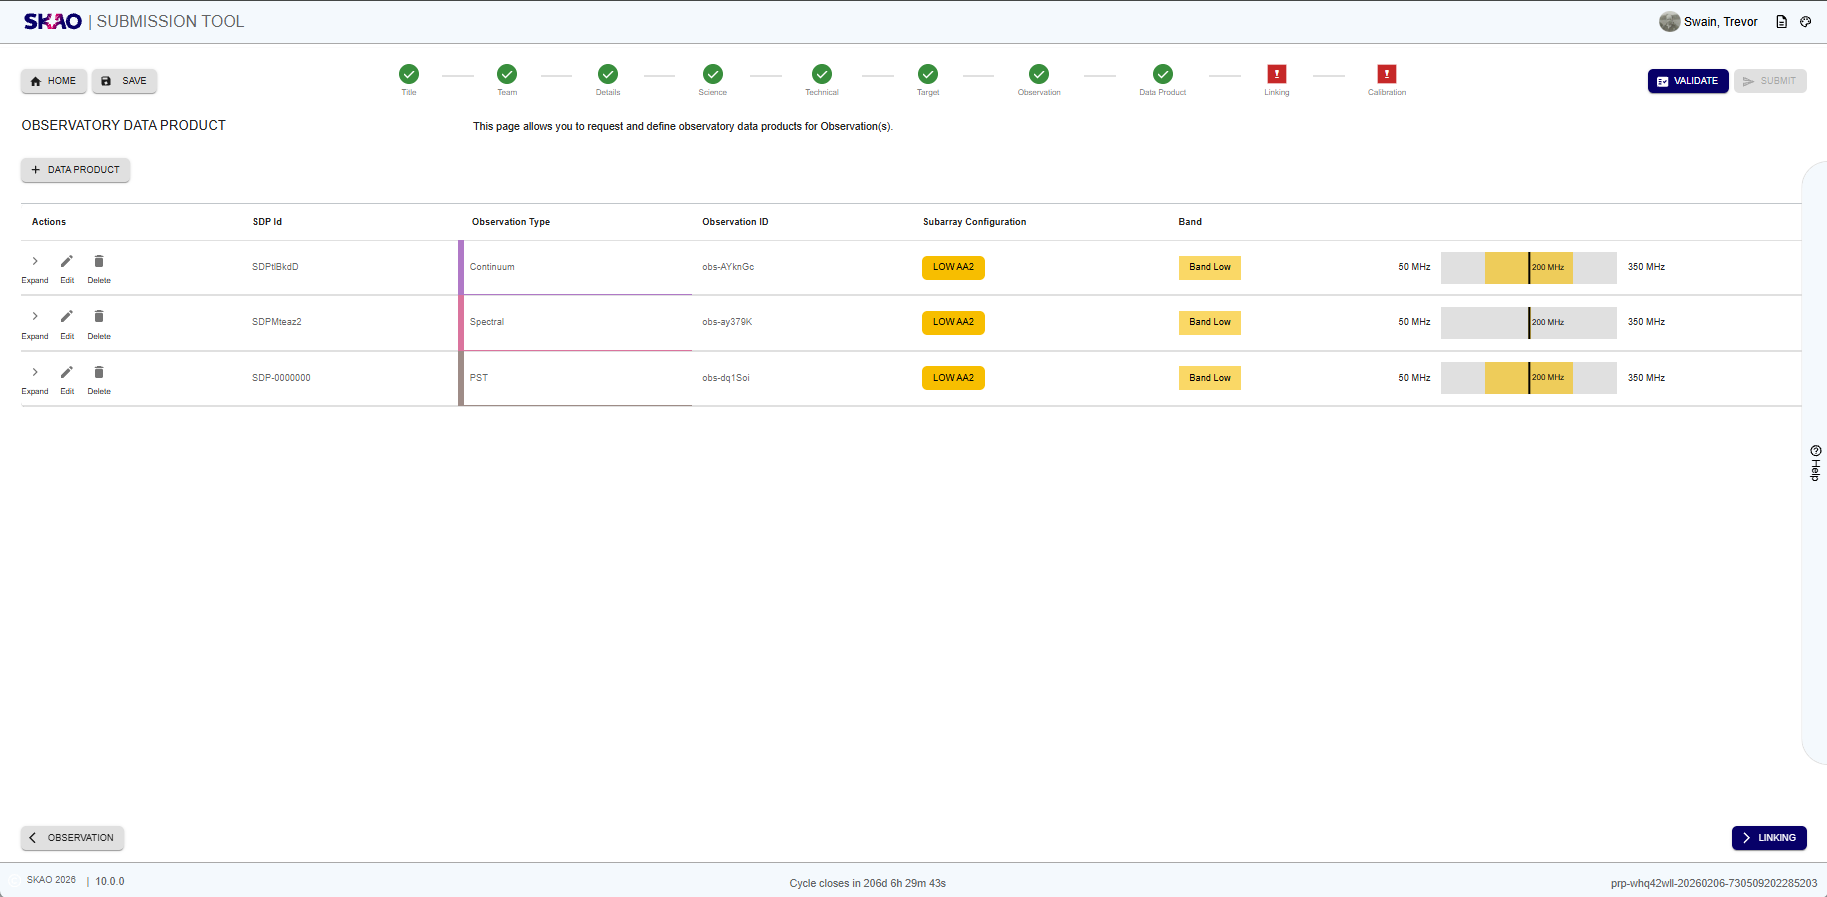
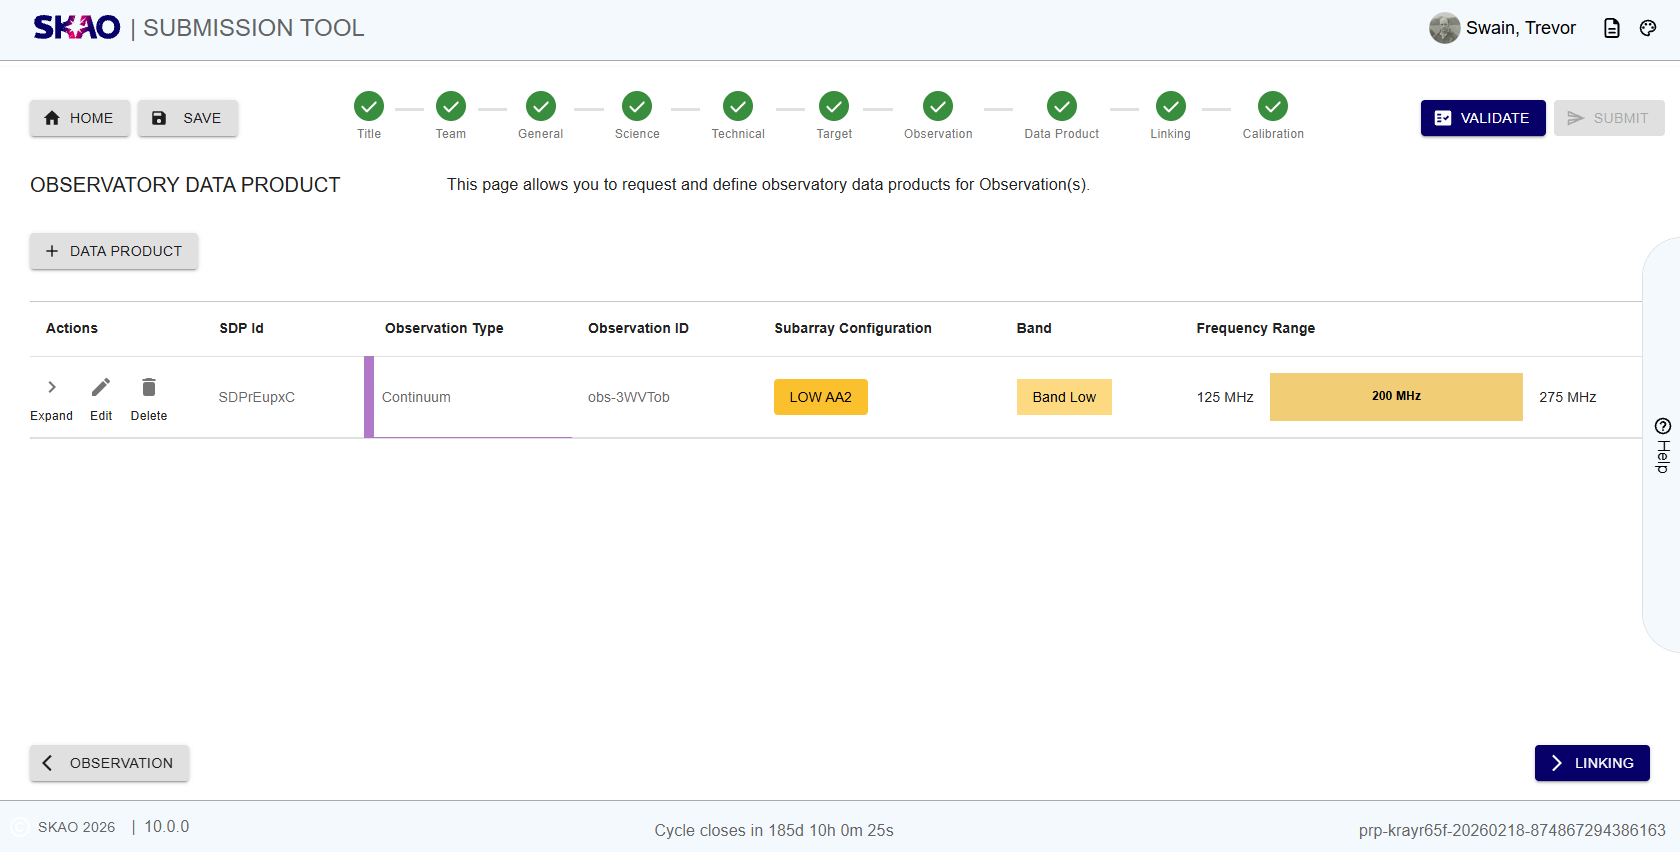
STAR-1822 : Added Data Product Page documentation

diff --git a/src/pages/entry/ObservationEntry/ObservationEntry.tsx b/src/pages/entry/ObservationEntry/ObservationEntry.tsx
@@ -975,13 +975,13 @@ export default function ObservationEntry({ data }: ObservationEntryProps) {
         <Grid size={{ md: 12, lg: 6 }}>{centralFrequencyField()}</Grid>
         <Grid sx={{ height: 100 }} size={{ md: 12 }}></Grid>
         <Grid size={{ md: 12, lg: 6 }}>
-          {/* {isPST()
+          {isPST()
             ? pstModeField()
             : isZoom()
             ? spectralAveragingField()
             : isContinuum()
             ? SubBandsField()
-            : emptyField()} */}
+            : emptyField()}
         </Grid>
         <Grid size={{ md: 12, lg: 6 }}>{isZoom() ? spectralResolutionField() : emptyField()}</Grid>
         <Grid size={{ md: 12, lg: 6 }}>{isZoom() ? effectiveResolutionField() : emptyField()}</Grid>

diff --git a/docs/src/userGuide/proposal/DataProductPage.rst b/docs/src/userGuide/proposal/DataProductPage.rst
@@ -1,7 +1,7 @@
-Observatory Data Product Page
-~~~~~~~~~~~~~~~~~~~~~~~~~~~~~~~~~
+ObservatoryData Product Page
+~~~~~~~~~~~~~~~~~~~~~~~~~~~~~~
 
-Data Products are associated to one or more Observation(s) which have a valid association to a target with resultant sensitivity calculation results. Here, you can request a single or multiple observatory data products for an observation set added to your proposal. The |icosdp| button is not active until an observation exists, has been linked to a target and has a valid Sensitivity Calculation Result. 
+Data Products are associated to an Observation which have a valid association to a target. Here, you can request a single or multiple observatory data products for an observation set added to your submission. The |icosdp| button is not active until an observation exists. 
 :numref:`Figure %s <figure50>` shows the layout of the observatory data product page when no data product has been added to Observation(s).
 
 .. |icosdp| image:: /images/addsdp.png
@@ -22,11 +22,10 @@ Data Products are associated to one or more Observation(s) which have a valid as
 Key Information and Actions
 ===========================
 
-- View data products added to observation set(s).
+- View data products added to an observation set.
 - Add new data products.
 - Delete data products.
-- If no observation is added to your proposal yet, the |icosdp| button will be deactivated.
-
+- If no observation is added to your submission yet, the |icosdp| button will be deactivated.
 
 
 Layout and Navigation
@@ -37,62 +36,62 @@ The are two parts to the observatory data product page:
 1. **Landing page**
 
 
-   To add observatory data product to an observation, click the  |icosdp| button. Once data products 
-   have been added to your Observation(s), the observatory data product landing page will 
+   To add observatory data product to an observation, click the  |icosdp| button. Once a data product 
+   has been associated to an Observation, the observatory data product landing page will 
    display a table as shown in :numref:`Figure %s <datapage>`. This table displays the following:
 
-      - *Observation(s)*: Observation set selected for which the observatory data product(s) is added.
-      - *Observatory Data Products*:  A list of added data products(s).
-      - *Image Size*: Image size requested.
-      - *Pixel Size*: Pixel size calculated based on the beam size returned from the sensitivity calculator =  :math:`\frac{\theta_{minor}}{3} arcsec`.
-      - *Weighting*: The weighting of the selected observation set.
-      - *"Actions"* : "Delete" is the only option available at the moment.
-
-
-.. _datapage:
-
-.. figure:: /images/sdpdata1.png
-   :width: 90%
-   :alt: Image of the Observatory Data Product page with data products added. 
-
-   Observatory Data Product page with data products added.
-
-
-
-Below is the list of Observatory Data Products available at present:
-
-      - Image Products 1 : Image Cubes
-      - Image Products 2 : UV Grids
-      - LSM Catalogue
-      - Visibilities
-
-
-  
+      - *"Actions"* : 
+         - *Expand* : Expand to view details of the data product added to the observation set
+         - *Edit" : Edit the data product parameters. This takes you to the data product management page (see next section).
+         - *Delete* : Delete the data product association to an observation set.
+      -"SDP Id": Unique identifier for the data product association to an observation set.
+      - *Observation Type*: Type of observation associated to the Data PProduct.
+      - *Observatory ID*:  Unique identifier for the Observation set.
+      - *Subarray Configuration*: Subarray configuration of the observation set.
+      - *Observing Band*: Observing band of the selected observation set.
+      - *Frequency Range*: Frequency range of the selected observation set.
 
 2. **Data Product Management**
 
 - Clicking on the |icosdp| button takes the user to a page where parameters of the 
-  data product(s) can be specified as shown in :numref:`Figure %s <datapage2>`
+  different data product(s) can be specified as shown below:
 
 .. _datapage2:
 
-.. figure:: /images/sdpdata2.png
+.. figure:: /images/dpContinuum1.png
    :width: 90%
-   :alt: Image of the Observatory Data Product management page 
+   :alt: Image of the Data Product Continuum Images page 
 
-   Observatory Data Product management page.
+   Data Product Continuum Images page 
 
+.. figure:: /images/dpContinuum2.png
+   :width: 90%
+   :alt: Image of the Data Product Continuum Visibilities page 
 
-Key Information and Actions
-===========================
+   Data Product Continuum Visibilities page 
 
-- View data products added to Observation(s).
-- Add new data products.
-- Delete data products.
-- If no observation is added to your proposal yet, the |icosdp| button will be deactivated.
+.. figure:: /images/dpSpectral.png
+   :width: 90%
+   :alt: Image of the Data Product Spectral page 
 
+   Data Product Spectral page 
+   
+.. figure:: /images/dpPST1.png
+   :width: 90%
+   :alt: Image of the Data Product PST Pulsar Timing page 
 
+   Data Product PST Pulsar Timing page 
 
+.. figure:: /images/dpPST2.png
+   :width: 90%
+   :alt: Image of the Data Product PST Detected Filter Bank page 
 
+   Data Product PST Detected Filter Bank page 
+
+.. figure:: /images/dpPST3.png
+   :width: 90%
+   :alt: Image of the Data Product PST Flow Through page 
+
+   Data Product PST Flow Through page 
 
 |helpdesk|

diff --git a/docs/src/userGuide/sv/DataProductsPageSV.rst b/docs/src/userGuide/sv/DataProductsPageSV.rst
@@ -1,98 +1,45 @@
 Observatory Data Product Page
 ~~~~~~~~~~~~~~~~~~~~~~~~~~~~~~~~~
 
-Data Products are associated to one or more Observation(s) which have a valid association to a target with resultant sensitivity calculation results. Here, you can request a single or multiple observatory data products for an observation set added to your proposal. The |icosdp| button is not active until an observation exists, has been linked to a target and has a valid Sensitivity Calculation Result. 
-:numref:`Figure %s <figure50>` shows the layout of the observatory data product page when no data product has been added to Observation(s).
-
-.. |icosdp| image:: /images/addsdp.png
-   :width: 20%
-   :alt: Page filter
-
-
-.. _figure50:
-
-.. figure:: /images/dataProductPage.png
-   :width: 100%
-   :alt: Image of the Observatory Data Product page. 
-
-   Observatory Data Product page.
-
-
-
-Key Information and Actions
-===========================
-
-- View data products added to observation set(s).
-- Add new data products.
-- Delete data products.
-- If no observation is added to your proposal yet, the |icosdp| button will be deactivated.
-
-
-
-Layout and Navigation
-=====================
-
-The are two parts to the observatory data product page:
-
-1. **Landing page**
-
-
-   To add observatory data product to an observation, click the  |icosdp| button. Once data products 
-   have been added to your Observation(s), the observatory data product landing page will 
-   display a table as shown in :numref:`Figure %s <datapage>`. This table displays the following:
-
-      - *Observation(s)*: Observation set selected for which the observatory data product(s) is added.
-      - *Observatory Data Products*:  A list of added data products(s).
-      - *Image Size*: Image size requested.
-      - *Pixel Size*: Pixel size calculated based on the beam size returned from the sensitivity calculator =  :math:`\frac{\theta_{minor}}{3} arcsec`.
-      - *Weighting*: The weighting of the selected observation set.
-      - *"Actions"* : "Delete" is the only option available at the moment.
-
-
-.. _datapage:
-
-.. figure:: /images/sdpdata1.png
-   :width: 90%
-   :alt: Image of the Observatory Data Product page with data products added. 
-
-   Observatory Data Product page with data products added.
-
-
-
-Below is the list of Observatory Data Products available at present:
-
-      - Image Products 1 : Image Cubes
-      - Image Products 2 : UV Grids
-      - LSM Catalogue
-      - Visibilities
-
-
-  
-
-2. **Data Product Management**
-
-- Clicking on the |icosdp| button takes the user to a page where parameters of the 
-  data product(s) can be specified as shown in :numref:`Figure %s <datapage2>`
+A Data Product is associated to a single Observation.
+The different possible data product variations are shown below:
 
 .. _datapage2:
 
-.. figure:: /images/sdpdata2.png
+.. figure:: /images/dpContinuum1.png
    :width: 90%
-   :alt: Image of the Observatory Data Product management page 
+   :alt: Image of the Data Product Continuum Images page 
 
-   Observatory Data Product management page.
+   Data Product Continuum Images page 
 
+.. figure:: /images/dpContinuum2.png
+   :width: 90%
+   :alt: Image of the Data Product Continuum Visibilities page 
 
-Key Information and Actions
-===========================
+   Data Product Continuum Visibilities page 
 
-- View data products added to Observation(s).
-- Add new data products.
-- Delete data products.
-- If no observation is added to your proposal yet, the |icosdp| button will be deactivated.
+.. figure:: /images/dpSpectral.png
+   :width: 90%
+   :alt: Image of the Data Product Spectral page 
 
+   Data Product Spectral page 
+   
+.. figure:: /images/dpPST1.png
+   :width: 90%
+   :alt: Image of the Data Product PST Pulsar Timing page 
 
+   Data Product PST Pulsar Timing page 
 
+.. figure:: /images/dpPST2.png
+   :width: 90%
+   :alt: Image of the Data Product PST Detected Filter Bank page 
 
+   Data Product PST Detected Filter Bank page 
+
+.. figure:: /images/dpPST3.png
+   :width: 90%
+   :alt: Image of the Data Product PST Flow Through page 
+
+   Data Product PST Flow Through page 
 
 |helpdesk|

diff --git a/docs/src/userGuide/proposal/TitlePage.rst b/docs/src/userGuide/proposal/TitlePage.rst
@@ -47,9 +47,9 @@ Key Information and Actions
    :header: "Submission Attributes", "Initials", "Description"
 
     "Target of Opportunity", "ToO", "These are submissions that require rapid response to alerts that have been triggered by events either externally or internally to the SKA."
-    "Joint SKA submission", "JSP", "A submission that requires both SKA-LOW and SKA-MID telescopes to achieve the science goals. Such submissions may be linked so that observations can be executed contemporaneously."
-    "Coordinated Submission", "CP", "A  submission  requiring  observing  to  be  coordinated  with  another  facility    (either    ground- or   space-based)    with    user-specified scheduling constraints provided. The SKA Observatory will seek to establish  relationships  with  key,  complementary  facilities  (e.g.,  ALMA)  to  facilitate  CPs.  Submissions  for  VLBI  will be  considered  as  Coordinated Submissions."
-    "Long Term Submission", "LTS", "These are for projects that require more than one time allocation cycle  to  complete  (e.g.,  long-term  monitoring  campaigns)  but  are  too short in overall observing time to qualify as a KSP."
+    "Joint SKA Proposal", "JSP", "A submission that requires both SKA-LOW and SKA-MID telescopes to achieve the science goals. Such submissions may be linked so that observations can be executed contemporaneously."
+    "Coordinated Proposal", "CP", "A  submission  requiring  observing  to  be  coordinated  with  another  facility    (either    ground- or   space-based)    with    user-specified scheduling constraints provided. The SKA Observatory will seek to establish  relationships  with  key,  complementary  facilities  (e.g.,  ALMA)  to  facilitate  CPs.  Submissions  for  VLBI  will be  considered  as  Coordinated Submissions."
+    "Long Term Projects", "LTS", "These are for projects that require more than one time allocation cycle  to  complete  (e.g.,  long-term  monitoring  campaigns)  but  are  too short in overall observing time to qualify as a KSP."
 
 
 
